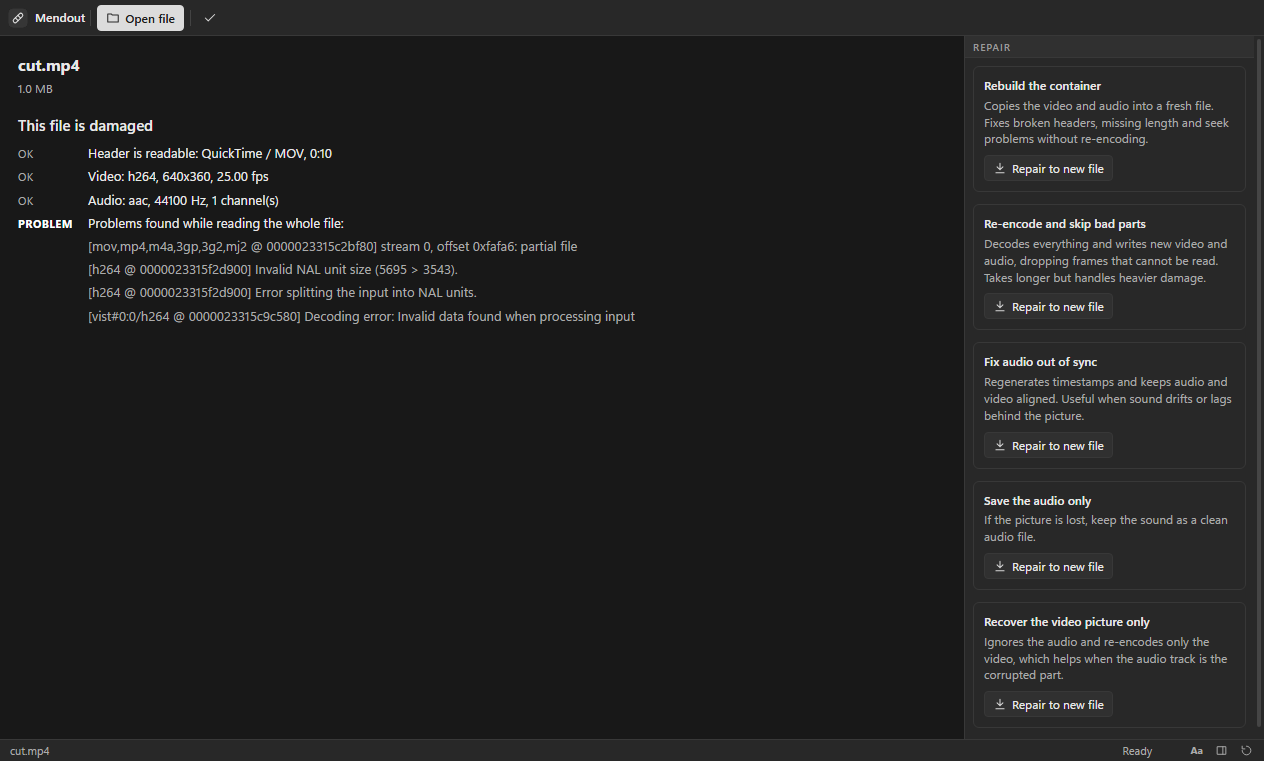
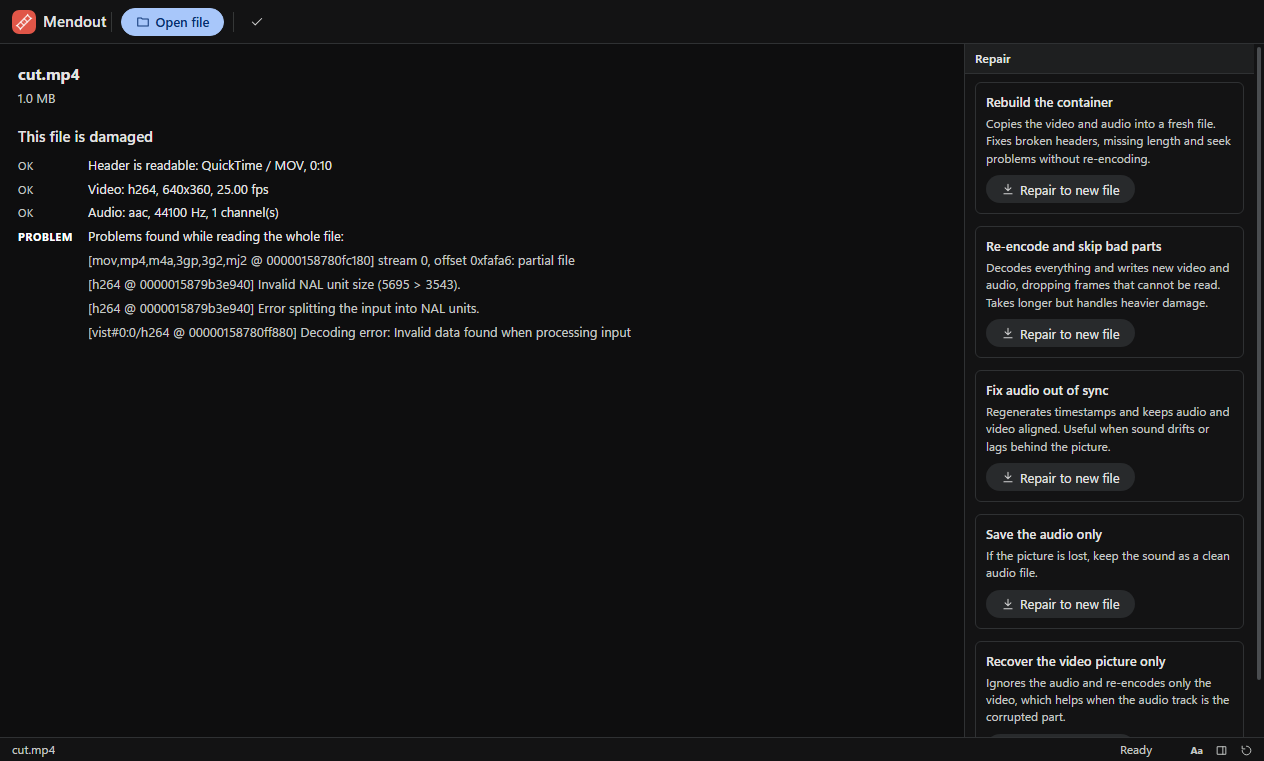
fix: Mendout 1.0.14
New Google-style look: charcoal theme, pill buttons, blue accent, colour app logo. Refreshed README and screenshots.

Changed region(s): [[0.7405, 0.0302, 1.0, 0.9974], [0.0, 0.0, 0.4937, 0.4534], [0.0, 0.9671, 0.0617, 0.9974]]

diff --git a/renderer/lookout.css b/renderer/lookout.css
@@ -1,68 +1,69 @@
-/* Lookout gray UI kit v3: compact pro workspace, flat, no hue. Shared by every Lookout app. */
+/* Lookout UI kit v4: Google-style dark (AI Studio / Colab / Gemini): soft surfaces, pill buttons, blue accent. Shared by every Lookout app. */
 :root{
-  --bg:#202020; --bg-2:#282828; --bg-3:#303030; --bg-4:#3a3a3a; --stage:#181818;
-  --line:#383838; --line-2:#4a4a4a; --line-3:#5c5c5c;
-  --text:#e8e8e8; --text-2:#ababab; --text-3:#9a9a9a;
-  --accent:#dcdcdc; --accent-ink:#1b1b1b; --focus:#a0a0a0;
-  --radius:4px; --h:26px; --pad:8px;
-  --font:"Segoe UI Variable Text","Segoe UI",system-ui,-apple-system,sans-serif; --mono:Consolas,"Cascadia Mono",monospace;
+  --bg:#131314; --bg-2:#1e1f20; --bg-3:#282a2c; --bg-4:#333537; --stage:#0e0e0f;
+  --line:#2f3133; --line-2:#444746; --line-3:#5f6368;
+  --text:#e3e3e3; --text-2:#c4c7c5; --text-3:#9aa0a6;
+  --accent:#a8c7fa; --accent-ink:#062e6f; --accent-2:#0b57d0; --accent-soft:#2b3a55; --focus:#a8c7fa;
+  --radius:8px; --h:28px; --pad:10px;
+  --font:"Google Sans Text","Google Sans",Roboto,"Segoe UI Variable Text","Segoe UI",system-ui,-apple-system,sans-serif; --mono:Consolas,"Cascadia Mono",monospace;
 }
 *{box-sizing:border-box;margin:0;padding:0}
-html,body{height:100%;background:var(--bg);color:var(--text);font:12px/1.4 var(--font);overflow:hidden;user-select:none;-webkit-font-smoothing:antialiased}
+html,body{height:100%;background:var(--bg);color:var(--text);font:13px/1.45 var(--font);overflow:hidden;user-select:none;-webkit-font-smoothing:antialiased}
 button,input,select,textarea{font:inherit;color:inherit}
 .app{display:grid;grid-template-rows:auto 1fr auto;height:100vh}
 
 /* ---------- toolbar ---------- */
-.toolbar{display:flex;align-items:center;gap:1px;padding:4px 8px;min-height:36px;background:var(--bg-2);border-bottom:1px solid var(--line);flex-wrap:nowrap;overflow-x:auto;overflow-y:hidden;scrollbar-width:none}
+.toolbar{display:flex;align-items:center;gap:1px;padding:6px 12px;min-height:44px;background:var(--bg);border-bottom:1px solid var(--line);flex-wrap:nowrap;overflow-x:auto;overflow-y:hidden;scrollbar-width:none}
 .toolbar::-webkit-scrollbar{height:0}
 .toolbar>*{flex-shrink:0}
-.toolbar .sep{width:1px;height:16px;align-self:center;background:var(--line-2);margin:0 5px;opacity:.8}
+.toolbar .sep{width:1px;height:20px;align-self:center;background:var(--line-2);margin:0 8px;opacity:.7}
 .toolbar .grow{flex:1 1 auto;min-width:8px}
 .toolbar input[type=text],.toolbar input[type=search]{width:150px}
-.brand{display:flex;align-items:center;gap:7px;padding-right:2px;margin-right:2px;font-weight:600;font-size:12px;color:var(--text)}
-.brand img{width:20px;height:20px;border-radius:5px;display:block}
+.brand{display:flex;align-items:center;gap:7px;padding-right:2px;margin-right:2px;font-weight:500;font-size:15px;letter-spacing:.1px;color:var(--text)}
+.brand img{width:24px;height:24px;border-radius:7px;display:block}
 .brand+.sep{margin-left:0}
 
 /* ---------- buttons ---------- */
-.btn{display:inline-flex;align-items:center;justify-content:center;gap:5px;height:var(--h);padding:0 8px;background:var(--bg-3);border:1px solid var(--line);border-radius:var(--radius);cursor:pointer;white-space:nowrap;line-height:1;transition:background .08s,border-color .08s}
-.btn:hover{background:var(--bg-4);border-color:var(--line-2)}
-.btn:active{background:#262626}
+.btn{display:inline-flex;align-items:center;justify-content:center;gap:5px;height:var(--h);padding:0 14px;background:var(--bg-3);border:1px solid transparent;border-radius:999px;cursor:pointer;white-space:nowrap;line-height:1;transition:background .08s,border-color .08s}
+.btn:hover{background:var(--bg-4)}
+.btn:active{background:#3c3f41}
 .btn:focus-visible,input:focus-visible,select:focus-visible,textarea:focus-visible,[tabindex]:focus-visible{outline:2px solid var(--focus);outline-offset:1px}
-.btn.primary{background:var(--accent);color:var(--accent-ink);border-color:var(--accent);font-weight:600}
-.btn.primary:hover{background:#ececec;border-color:#ececec}
-.btn.on{background:#4a4a4a;border-color:var(--line-3);box-shadow:inset 0 0 0 1px #6a6a6a}
+.btn.primary{background:var(--accent);color:var(--accent-ink);border-color:var(--accent);font-weight:500}
+.btn.primary:hover{background:#c2d7fb;border-color:#c2d7fb;box-shadow:0 1px 3px rgba(0,0,0,.4)}
+.btn.on{background:var(--accent-soft);color:var(--accent);border-color:transparent}
 .btn[disabled]{opacity:.45;pointer-events:none}
-.btn.icon{padding:0;width:var(--h);min-width:var(--h)}
+.btn.icon{padding:0;width:var(--h);min-width:var(--h);border-radius:50%}
 .btn .ic{width:14px;height:14px;flex-shrink:0;display:block;opacity:.92}
 .toolbar .btn:not(.primary):not(.on){background:transparent;border-color:transparent}
-.toolbar .btn:not(.primary):not(.on):hover{background:var(--bg-4);border-color:var(--line-2)}
+.toolbar .btn:not(.primary):not(.on):hover{background:var(--bg-3);border-color:transparent}
 
 /* icon-only toolbar: names live in the tooltip (Aa in the status bar brings the labels back) */
-.toolbar:not(.lbl) .btn:not(.primary):has(> svg.ic),.toolbar.c3 .btn:has(> svg.ic){font-size:0;gap:0;width:var(--h);padding:0}
+.toolbar:not(.lbl) .btn:not(.primary):has(> svg.ic),.toolbar.c3 .btn:has(> svg.ic){font-size:0;gap:0;width:var(--h);padding:0;border-radius:50%}
 .toolbar.c2 .brand span{display:none}
 .toolbar.c2 input[type=text],.toolbar.c2 input[type=search]{width:110px}
 .toolbar.lbl.c1 .btn.minor:not(.primary):has(> svg.ic),.toolbar.lbl.c2 .btn:not(.primary):has(> svg.ic){font-size:0;gap:0;width:var(--h);padding:0}
 
 /* ---------- fields ---------- */
-input[type=text],input[type=number],input[type=search],input[type=date],select,textarea{background:var(--bg);border:1px solid var(--line-2);border-radius:var(--radius);padding:0 7px;height:var(--h);user-select:text;min-width:0;font-size:12px}
+input[type=text],input[type=number],input[type=search],input[type=date],select,textarea{background:var(--bg-3);border:1px solid transparent;border-radius:var(--radius);padding:0 10px;height:var(--h);user-select:text;min-width:0;font-size:13px}
 input[type=number],.frow>input,.field>input{font-variant-numeric:tabular-nums}
 textarea{height:auto;padding:5px 7px;resize:vertical;line-height:1.4}
 select{padding-right:4px;cursor:pointer}
-input:hover,select:hover,textarea:hover{border-color:var(--line-3)}
-input[type=range]{accent-color:#c8c8c8;height:var(--h)}
-input[type=checkbox]{accent-color:#c8c8c8;width:14px;height:14px;cursor:pointer}
-input[type=color]{border:1px solid var(--line-2);background:var(--bg);width:26px;height:var(--h);padding:2px;border-radius:var(--radius)}
-label.field{display:flex;flex-direction:column;gap:3px;color:var(--text-2);font-size:11px}
-label.field>input,label.field>select,label.field>textarea{width:100%;color:var(--text);font-size:12px}
+input:hover,select:hover,textarea:hover{background:var(--bg-4)}
+input[type=text]:focus,input[type=number]:focus,input[type=search]:focus,input[type=date]:focus,select:focus,textarea:focus{outline:none;border-color:var(--accent);background:var(--bg-2)}
+input[type=range]{accent-color:#a8c7fa;height:var(--h)}
+input[type=checkbox]{accent-color:#a8c7fa;width:14px;height:14px;cursor:pointer}
+input[type=color]{border:1px solid var(--line-2);background:var(--bg-3);width:26px;height:var(--h);padding:2px;border-radius:var(--radius)}
+label.field{display:flex;flex-direction:column;gap:3px;color:var(--text-2);font-size:12px}
+label.field>input,label.field>select,label.field>textarea{width:100%;color:var(--text);font-size:13px}
 
 /* ---------- layout ---------- */
 .main{display:flex;min-height:0;min-width:0}
-.sidebar{width:210px;background:var(--bg-2);border-right:1px solid var(--line);overflow:auto;padding:var(--pad);flex-shrink:0;min-width:0}
+.sidebar{width:210px;background:var(--bg);border-right:1px solid var(--line);overflow:auto;padding:var(--pad);flex-shrink:0;min-width:0}
 .sidebar.right{border-right:0;border-left:1px solid var(--line);width:250px}
 .sidebar.collapsed{display:none!important}
-.sidebar h3,.panel-title{font-size:10px;text-transform:uppercase;letter-spacing:.09em;color:var(--text-3);font-weight:600}
+.sidebar h3,.panel-title{font-size:12px;letter-spacing:.2px;color:var(--text-2);font-weight:500}
 .sidebar h3{margin:12px 0 6px}
-.sidebar>h3{display:flex;align-items:center;gap:6px;height:22px;margin:10px calc(var(--pad) * -1) 8px;padding:0 var(--pad);background:var(--bg-3);border-top:1px solid var(--line);border-bottom:1px solid var(--line)}
+.sidebar>h3{display:flex;align-items:center;gap:6px;height:30px;margin:10px calc(var(--pad) * -1) 8px;padding:0 var(--pad);background:var(--bg-2);border-top:1px solid var(--line);border-bottom:1px solid var(--line);color:var(--text)}
 .sidebar>h3:first-child{margin-top:calc(var(--pad) * -1);border-top:0}
 .panel-title{margin:12px 0 6px}
 .sidebar input[type=text],.sidebar input[type=search],.sidebar select,.sidebar textarea{width:100%}
@@ -73,20 +74,20 @@ label.field>input,label.field>select,label.field>textarea{width:100%;color:var(-
 .sidebar .btn{width:auto}
 .sidebar>.btn{width:100%;margin-bottom:5px}
 .stage{flex:1;min-width:0;min-height:0;position:relative;background:var(--stage);overflow:auto}
-.status{display:flex;gap:14px;align-items:center;height:22px;padding:0 10px;background:var(--bg-2);border-top:1px solid var(--line);color:var(--text-2);font-size:11px;white-space:nowrap;overflow:hidden}
+.status{display:flex;gap:14px;align-items:center;height:24px;padding:0 12px;background:var(--bg);border-top:1px solid var(--line);color:var(--text-2);font-size:12px;white-space:nowrap;overflow:hidden}
 .status .grow{flex:1}
 body.hasdock .status{padding-right:112px}
-.wbs{position:fixed;right:6px;bottom:2px;height:18px;display:flex;gap:2px;z-index:8;background:var(--bg-2);padding-left:6px}
+.wbs{position:fixed;right:6px;bottom:2px;height:18px;display:flex;gap:2px;z-index:8;background:var(--bg);padding-left:6px}
 .wbs[hidden]{display:none}
-.wbs .wb{height:18px;min-width:22px;padding:0 4px;display:inline-flex;align-items:center;justify-content:center;font-size:10px;font-weight:700;line-height:1;background:transparent;border:1px solid transparent;border-radius:3px;color:var(--text-2);cursor:pointer}
+.wbs .wb{height:18px;min-width:22px;padding:0 4px;display:inline-flex;align-items:center;justify-content:center;font-size:10px;font-weight:700;line-height:1;background:transparent;border:1px solid transparent;border-radius:6px;color:var(--text-2);cursor:pointer}
 .wbs .wb[hidden]{display:none}
 .wbs .wb svg{width:13px;height:13px;display:block}
-.wbs .wb:hover{background:var(--bg-4);border-color:var(--line-2);color:var(--text)}
-.wbs .wb.on{background:var(--bg-4);border-color:var(--line-3);color:var(--text)}
+.wbs .wb:hover{background:var(--bg-3);color:var(--text)}
+.wbs .wb.on{background:var(--accent-soft);color:var(--accent)}
 .list{display:flex;flex-direction:column;gap:1px}
-.list .item{padding:3px 6px;border-radius:var(--radius);cursor:pointer;border:1px solid transparent;display:flex;gap:6px;align-items:center;min-height:26px}
+.list .item{padding:3px 10px;border-radius:999px;cursor:pointer;border:1px solid transparent;display:flex;gap:6px;align-items:center;min-height:26px}
 .list .item:hover{background:var(--bg-3)}
-.list .item.sel{background:var(--bg-4);border-color:var(--line-2)}
+.list .item.sel{background:var(--accent-soft);color:var(--accent);border-color:transparent}
 .row{display:flex;gap:5px;align-items:center}
 .grow{flex:1 1 auto;min-width:0}
 .brow{display:grid;grid-template-columns:1fr 1fr;gap:5px;margin-bottom:5px}
@@ -99,17 +100,17 @@ body.hasdock .status{padding-right:112px}
 .sidebar .swatches{margin-bottom:8px}
 .list .item .btn{height:22px!important;width:24px!important;padding:0!important;font-size:0!important;gap:0;background:transparent;border-color:transparent;opacity:.55}
 .list .item:hover .btn,.list .item.sel .btn{opacity:1}
-.list .item .btn:hover{background:var(--bg-4);border-color:var(--line-2)}
+.list .item .btn:hover{background:var(--bg-4)}
 .col{display:flex;flex-direction:column;gap:5px}
 .muted{color:var(--text-2)}
 .empty{position:absolute;inset:0;display:flex;flex-direction:column;align-items:center;justify-content:center;gap:10px;color:var(--text-3);text-align:center;padding:24px}
-.empty .big{font-size:16px;color:var(--text-2);font-weight:600}
+.empty .big{font-size:20px;color:var(--text);font-weight:400}
 
 /* panel grip: drag to resize, double-click to collapse or restore */
 .grip{position:relative;flex:0 0 5px;width:5px;margin:0 -3px 0 -2px;z-index:6;cursor:col-resize;touch-action:none}
 .grip::after{content:"";position:absolute;top:0;bottom:0;left:2px;width:1px;background:transparent;transition:background .1s}
-.grip:hover::after,.grip.drag::after{background:var(--line-3);width:2px;left:1px}
-.grip.collapsed{flex:0 0 8px;width:8px;margin:0;background:var(--bg-2);border-left:1px solid var(--line);border-right:1px solid var(--line)}
+.grip:hover::after,.grip.drag::after{background:var(--accent);width:2px;left:1px}
+.grip.collapsed{flex:0 0 8px;width:8px;margin:0;background:var(--bg);border-left:1px solid var(--line);border-right:1px solid var(--line)}
 .grip.collapsed::after{left:3px;top:calc(50% - 14px);bottom:auto;height:28px;width:2px;background:var(--line-3);border-radius:2px}
 .grip.collapsed:hover{background:var(--bg-3)}
 body.gripping{cursor:col-resize}
@@ -117,30 +118,30 @@ body.gripping *{cursor:col-resize!important;user-select:none!important}
 
 /* ---------- overlays ---------- */
 .modal-back{position:fixed;inset:0;background:rgba(0,0,0,.6);display:flex;align-items:center;justify-content:center;z-index:50}
-.modal{background:var(--bg-2);border:1px solid var(--line-2);border-radius:8px;min-width:340px;max-width:80vw;max-height:85vh;overflow:auto;padding:16px;display:flex;flex-direction:column;gap:12px;box-shadow:0 18px 50px rgba(0,0,0,.5)}
-.modal h2{font-size:14px;font-weight:600}
-.toast{position:fixed;left:50%;bottom:34px;transform:translateX(-50%);background:var(--bg-4);border:1px solid var(--line-3);padding:7px 14px;border-radius:6px;z-index:60;box-shadow:0 8px 24px rgba(0,0,0,.4)}
-.progress{height:5px;background:var(--bg);border:1px solid var(--line);border-radius:4px;overflow:hidden}
+.modal{background:var(--bg-2);border:0;border-radius:24px;min-width:360px;max-width:80vw;max-height:85vh;overflow:auto;padding:24px;display:flex;flex-direction:column;gap:14px;box-shadow:0 8px 32px rgba(0,0,0,.6)}
+.modal h2{font-size:20px;font-weight:400}
+.toast{position:fixed;left:50%;bottom:34px;transform:translateX(-50%);background:#e3e3e3;color:#1f1f1f;border:0;padding:10px 18px;border-radius:8px;z-index:60;box-shadow:0 8px 24px rgba(0,0,0,.4)}
+.progress{height:6px;background:var(--bg-3);border:0;border-radius:999px;overflow:hidden}
 .progress>i,.progress>div{display:block;height:100%;background:var(--accent);width:0}
 
 /* ---------- tables ---------- */
 table.grid{border-collapse:separate;border-spacing:0;width:100%}
 table.grid th,table.grid td{border-bottom:1px solid var(--line);padding:0 10px;height:30px;text-align:left;vertical-align:middle}
-table.grid th{background:var(--bg-2);color:var(--text-2);font-weight:600;font-size:11px;position:sticky;top:0;z-index:1;height:26px}
-table.grid tbody tr:hover td{background:#242424}
-table.grid tr.sel td{background:#323232}
+table.grid th{background:var(--bg-2);color:var(--text-2);font-weight:500;font-size:12px;position:sticky;top:0;z-index:1;height:26px}
+table.grid tbody tr:hover td{background:var(--bg-2)}
+table.grid tr.sel td{background:var(--accent-soft)}
 table.grid tbody tr{cursor:default}
 table.grid td .btn{height:22px;margin-left:6px;vertical-align:middle}
 table.grid td{white-space:nowrap}
 
 /* ---------- misc ---------- */
 ::-webkit-scrollbar{width:10px;height:10px}
-::-webkit-scrollbar-thumb{background:#454545;border:3px solid transparent;background-clip:padding-box;border-radius:8px}
-::-webkit-scrollbar-thumb:hover{background:#5a5a5a;background-clip:padding-box;border:3px solid transparent}
+::-webkit-scrollbar-thumb{background:#4a4d50;border:3px solid transparent;background-clip:padding-box;border-radius:8px}
+::-webkit-scrollbar-thumb:hover{background:#6b6f73;background-clip:padding-box;border:3px solid transparent}
 ::-webkit-scrollbar-track,::-webkit-scrollbar-corner{background:transparent}
 .swatches{display:flex;flex-wrap:wrap;gap:5px}
-.swatches button{width:20px;height:20px;border:1px solid var(--line-3);border-radius:4px;cursor:pointer;padding:0}
+.swatches button{width:22px;height:22px;border:1px solid var(--line-3);border-radius:50%;cursor:pointer;padding:0}
 .swatches button.on{outline:2px solid var(--accent);outline-offset:2px}
-kbd{font-family:var(--mono);font-size:10px;background:var(--bg-3);border:1px solid var(--line-2);border-bottom-width:2px;border-radius:3px;padding:0 4px}
+kbd{font-family:var(--mono);font-size:10px;background:var(--bg-3);border:1px solid var(--line-2);border-bottom-width:2px;border-radius:4px;padding:0 5px}
 
 input::placeholder,textarea::placeholder{color:var(--text-3);opacity:1}

diff --git a/README.md b/README.md
@@ -1,8 +1,10 @@
-<p align="center"><img src="screenshots/banner.png" alt="Mendout" width="100%"></p>
+<p align="center"><img src="screenshots/logo.png" alt="Mendout" width="128"></p>
 
-<p align="center"><b>Repair damaged media</b><br>Version 1.0.3 for Windows · Free · Offline · No account</p>
+<h1 align="center">Mendout</h1>
 
-<p align="center"><a href="https://github.com/plawanpawin-byte/mendout/releases/latest"><b>Download Mendout</b></a> · <a href="https://github.com/plawanpawin-byte/Lookout">All Lookout apps</a></p>
+<p align="center"><b>Repair damaged media</b><br>Version 1.0.14 for Windows · Free · Offline · No account</p>
+
+<p align="center"><a href="https://github.com/plawanpawin-byte/mendout/releases/latest"><b>Download Mendout</b></a> · <a href="https://github.com/plawanpawin-byte/lookout-launcher">Lookout launcher</a> · <a href="https://github.com/plawanpawin-byte/Lookout">All Lookout apps</a></p>
 
 ---
 
@@ -12,11 +14,51 @@ Mendout checks a video, audio file, picture or PDF for problems and repairs it i
 
 ![Mendout](screenshots/01-file-opened.png)
 
-**On this page:** [Screenshots](#see-it-in-action) · [Interface](#the-interface) · [Features](#everything-it-can-do) · [How to use it](#how-to-use-it) · [Formats](#files-and-formats) · [Privacy](#private-by-design) · [Install](#install) · [Questions](#questions)
+**On this page:** [In plain words](#in-plain-words) · [Who it is for](#who-it-is-for) · [Try it in 3 steps](#try-it-in-3-steps) · [Screenshots](#see-it-in-action) · [Features](#everything-it-can-do) · [How to use it](#how-to-use-it) · [Privacy](#private-by-design) · [Install](#install) · [Questions](#questions)
 
-## What is new in 1.0.3
+## In plain words
 
-A refreshed interface: every toolbar button now has a clear line icon, the app's mark sits at the top left, controls share one height and spacing, panels line up in tidy grids, and the toolbar keeps every button reachable on smaller windows by switching less important buttons to icons.
+Mendout is a **repair shop for damaged files**. If a video stops halfway, an audio file will not play, a photo shows only a grey area or a PDF will not open, Mendout looks inside to find what is wrong, tells you in plain language, and offers fixes that fit the damage.
+
+It never changes your original: the repaired version is saved as a **new file** next to it. If the file is too damaged to save, Mendout says so honestly instead of pretending. If it is healthy, it tells you that too.
+
+**Not for:** Mendout repairs structure (missing ends, broken headers). It cannot bring back parts of a recording that were never saved.
+
+## Who it is for
+
+- **Anyone with a video from an interrupted recording** or a half-copied download.
+- **Photographers** with a picture that will not open.
+- **Office workers** with a PDF that complains it is damaged.
+
+## Try it in 3 steps
+
+1. Click **Open file** and choose the file that does not work, then click **Check file**.
+2. Read the report on the right. It lists what it found.
+3. Choose a repair, click **Repair to new file**, then **Show in folder** to find it.
+
+## What is new in 1.0.14
+
+A new look inspired by Google's own tools (AI Studio, Colab, Gemini): a calm dark charcoal theme, rounded pill buttons, a soft blue accent and roomier spacing. The app icon is now a colour logo so you can find Mendout at a glance in the Start menu and in the Lookout launcher. All screenshots below were taken again with the new look.
+
+## In plain words
+
+Mendout is a **repair shop for damaged files**. If a video stops halfway, an audio file will not play, a photo shows only a grey area or a PDF will not open, Mendout looks inside to find what is wrong, tells you in plain language, and offers fixes that fit the damage.
+
+It never changes your original: the repaired version is saved as a **new file** next to it. If the file is too damaged to save, Mendout says so honestly instead of pretending. If it is healthy, it tells you that too.
+
+**Not for:** Mendout repairs structure (missing ends, broken headers). It cannot bring back parts of a recording that were never saved.
+
+## Who it is for
+
+- **Anyone with a video from an interrupted recording** or a half-copied download.
+- **Photographers** with a picture that will not open.
+- **Office workers** with a PDF that complains it is damaged.
+
+## Try it in 3 steps
+
+1. Click **Open file** and choose the file that does not work, then click **Check file**.
+2. Read the report on the right. It lists what it found.
+3. Choose a repair, click **Repair to new file**, then **Show in folder** to find it.
 
 ## See it in action
 
@@ -113,7 +155,7 @@ Video and audio such as MP4, MOV, MKV, AVI, WebM, MP3, WAV and FLAC, pictures (P
 
 ## Install
 
-1. Open the [latest release](https://github.com/plawanpawin-byte/mendout/releases/latest) and download the file named **Mendout-Setup-** followed by the version number and **.exe**. You can also install it from the [Lookout launcher](https://github.com/${OWNER}/lookout-launcher), which keeps it up to date.
+1. Open the [latest release](https://github.com/plawanpawin-byte/mendout/releases/latest) and download the file named **Mendout-Setup-** followed by the version number and **.exe**. You can also install it from the [Lookout launcher](https://github.com/plawanpawin-byte/lookout-launcher), which keeps it up to date.
 2. Run the installer. It installs just for you, so it does not ask for administrator rights.
 3. Windows may show a blue **Windows protected your PC** screen because these installers are not signed with a paid certificate. Click **More info**, then **Run anyway**.
 4. Open Mendout from the Start menu.
@@ -125,18 +167,40 @@ Video and audio such as MP4, MOV, MKV, AVI, WebM, MP3, WAV and FLAC, pictures (P
 **Can everything be fixed?**  
 No. If the beginning of a file is destroyed there may be nothing to rebuild. PDFs that hide their catalog in compressed streams cannot be rebuilt offline. Mendout tells you instead of pretending.
 
+**Why "truncated"?**  
+The file ends too early, usually because a recording or copy was interrupted. Mendout can often rebuild the missing end so the rest plays.
+
+**Will it overwrite my file?**  
+Never. Repairs go to a new file.
+
+**What if repair fails?**  
+The report says the file cannot be recovered and why; nothing is changed.
+
+**Why "truncated"?**  
+The file ends too early, usually because a recording or copy was interrupted. Mendout can often rebuild the missing end so the rest plays.
+
+**Will it overwrite my file?**  
+Never. Repairs go to a new file.
+
+**What if repair fails?**  
+The report says the file cannot be recovered and why; nothing is changed.
+
 ## About Lookout
 
-Mendout belongs to the **[Lookout](https://github.com/plawanpawin-byte/Lookout)** family: ten small, private Windows apps for documents and media, all with the same calm grey look and the same promise that your files stay yours. Install and update them together with the [Lookout launcher](https://github.com/plawanpawin-byte/lookout-launcher).
+Mendout is part of **[Lookout](https://github.com/plawanpawin-byte/Lookout)**: ten small, private Windows apps for documents and media that share one look and one promise, that your files stay on your computer. Install and update them together with the [Lookout launcher](https://github.com/plawanpawin-byte/lookout-launcher).
 
-- **[Pageout](https://github.com/plawanpawin-byte/pageout)**: read, annotate and sign pdfs
-- **[Chartout](https://github.com/plawanpawin-byte/chartout)**: flowcharts and diagrams
-- **[Branchout](https://github.com/plawanpawin-byte/branchout)**: mind maps and outlines
-- **[Planout](https://github.com/plawanpawin-byte/planout)**: plans and gantt timelines
-- **[Frameout](https://github.com/plawanpawin-byte/frameout)**: screen design and prototypes
-- **[Cutout](https://github.com/plawanpawin-byte/cutout)**: video editing on a timeline
-- **[Shiftout](https://github.com/plawanpawin-byte/shiftout)**: convert and compress media
-- **[Castout](https://github.com/plawanpawin-byte/castout)**: record your screen
-- **[Tuneout](https://github.com/plawanpawin-byte/tuneout)**: record and edit audio
+| | App | What it is for | Code |
+| --- | --- | --- | --- |
+| <img src="https://raw.githubusercontent.com/plawanpawin-byte/lookout-launcher/main/build/icon.png" width="32" alt="Lookout"> | **Lookout** | Install, open and update all the apps below | [GitHub](https://github.com/plawanpawin-byte/lookout-launcher) |
+| <img src="https://raw.githubusercontent.com/plawanpawin-byte/pageout/main/build/icon.png" width="32" alt="Pageout"> | **Pageout** | Read, annotate and sign PDFs | [GitHub](https://github.com/plawanpawin-byte/pageout) |
+| <img src="https://raw.githubusercontent.com/plawanpawin-byte/chartout/main/build/icon.png" width="32" alt="Chartout"> | **Chartout** | Flowcharts, org charts and diagrams | [GitHub](https://github.com/plawanpawin-byte/chartout) |
+| <img src="https://raw.githubusercontent.com/plawanpawin-byte/branchout/main/build/icon.png" width="32" alt="Branchout"> | **Branchout** | Mind maps and outlines | [GitHub](https://github.com/plawanpawin-byte/branchout) |
+| <img src="https://raw.githubusercontent.com/plawanpawin-byte/planout/main/build/icon.png" width="32" alt="Planout"> | **Planout** | Project plans and Gantt timelines | [GitHub](https://github.com/plawanpawin-byte/planout) |
+| <img src="https://raw.githubusercontent.com/plawanpawin-byte/frameout/main/build/icon.png" width="32" alt="Frameout"> | **Frameout** | App and web screen design with click-through prototypes | [GitHub](https://github.com/plawanpawin-byte/frameout) |
+| <img src="https://raw.githubusercontent.com/plawanpawin-byte/cutout/main/build/icon.png" width="32" alt="Cutout"> | **Cutout** | Video editing on a timeline | [GitHub](https://github.com/plawanpawin-byte/cutout) |
+| <img src="https://raw.githubusercontent.com/plawanpawin-byte/shiftout/main/build/icon.png" width="32" alt="Shiftout"> | **Shiftout** | Convert and compress video and audio, make GIFs | [GitHub](https://github.com/plawanpawin-byte/shiftout) |
+| <img src="https://raw.githubusercontent.com/plawanpawin-byte/castout/main/build/icon.png" width="32" alt="Castout"> | **Castout** | Record your screen | [GitHub](https://github.com/plawanpawin-byte/castout) |
+| <img src="https://raw.githubusercontent.com/plawanpawin-byte/mendout/main/build/icon.png" width="32" alt="Mendout"> | **Mendout** | Check and repair damaged video, audio, pictures and PDFs | [GitHub](https://github.com/plawanpawin-byte/mendout) |
+| <img src="https://raw.githubusercontent.com/plawanpawin-byte/tuneout/main/build/icon.png" width="32" alt="Tuneout"> | **Tuneout** | Record and edit audio | [GitHub](https://github.com/plawanpawin-byte/tuneout) |
 
 Released under the MIT License.
